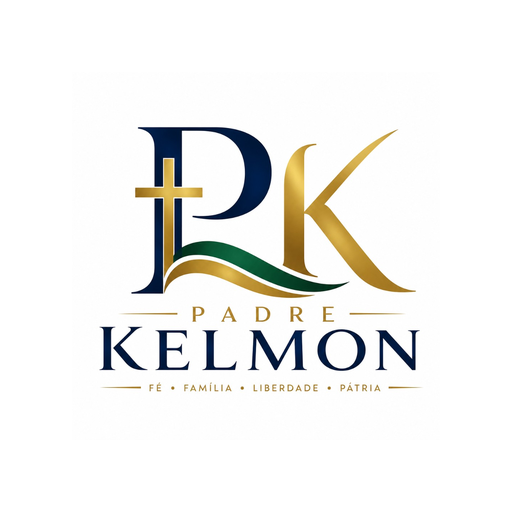
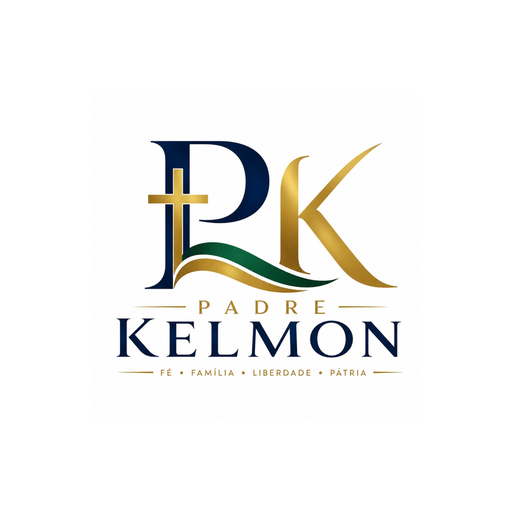
at 2

Changed region(s): [[0.1875, 0.25, 0.8125, 0.7812], [0.4375, 0.5938, 0.4688, 0.625]]

diff --git a/src/components/landing/site-header.tsx b/src/components/landing/site-header.tsx
@@ -42,12 +42,12 @@ export function SiteHeader() {
           <PageShell className="flex min-w-0 items-center gap-3 py-2 sm:py-2.5 md:gap-4 md:py-[0.6rem]">
             <Link to="/" onClick={() => scrollToPageTop()} className="flex shrink-0 items-center">
               <img
-                src="/Logo-Site-Padre-kelmon-campanha.png"
-                alt="Padre Kelmon 2202 — Deputado Federal"
+                src="/Logo-Site-PAdre-kelmon.png"
+                alt="Padre Kelmon — Fé, Família, Liberdade, Pátria"
                 width={220}
-                height={50}
+                height={60}
                 decoding="async"
-                className="h-10 w-auto max-w-[42vw] rounded-md object-contain object-left sm:h-11 md:h-11 md:max-w-[11rem] lg:h-12 lg:max-w-none"
+                className="h-10 w-auto max-w-[48vw] object-contain object-left sm:h-11 md:h-11 md:max-w-[14rem] lg:h-12 lg:max-w-none"
               />
             </Link>
 

diff --git a/src/routes/index.tsx b/src/routes/index.tsx
@@ -83,9 +83,10 @@ export const Route = createFileRoute("/")({
         { rel: "canonical", href: pageUrl },
         { rel: "alternate", hrefLang: "pt-BR", href: pageUrl },
         { rel: "alternate", hrefLang: "x-default", href: pageUrl },
-        { rel: "icon", href: "/favicon-campanha.png?v=6", type: "image/png", sizes: "any" },
-        { rel: "shortcut icon", href: "/favicon-campanha.png?v=6", type: "image/png" },
-        { rel: "apple-touch-icon", sizes: "180x180", href: "/favicon-campanha.png?v=6" },
+        { rel: "icon", href: "/favicon.png?v=7", type: "image/png", sizes: "any" },
+        { rel: "icon", href: "/favicon-32x32.png?v=7", type: "image/png", sizes: "32x32" },
+        { rel: "shortcut icon", href: "/favicon.ico?v=7" },
+        { rel: "apple-touch-icon", sizes: "180x180", href: "/apple-touch-icon.png?v=7" },
         {
           rel: "preload",
           as: "image",

diff --git a/src/components/landing/site-footer.tsx b/src/components/landing/site-footer.tsx
@@ -72,13 +72,13 @@ export function SiteFooter() {
               className="inline-flex items-center"
             >
               <img
-                src="/Logo-Site-Padre-kelmon-campanha.png"
-                alt="Padre Kelmon 2202 — Deputado Federal"
+                src="/Logo-Site-PAdre-kelmon.png"
+                alt="Padre Kelmon — Fé, Família, Liberdade, Pátria"
                 width={200}
-                height={45}
+                height={55}
                 loading="lazy"
                 decoding="async"
-                className="h-9 w-auto rounded-md sm:h-10"
+                className="h-9 w-auto rounded-md bg-white/95 px-2 py-1 sm:h-10"
               />
             </Link>
             <p className="mt-3 whitespace-nowrap text-[clamp(0.7rem,2.8vw,0.875rem)] font-bold leading-none text-white">

diff --git a/src/routes/__root.tsx b/src/routes/__root.tsx
@@ -97,9 +97,10 @@ export const Route = createRootRouteWithContext<{ queryClient: QueryClient }>()(
     links: [
       { rel: "stylesheet", href: appCss },
       { rel: "manifest", href: "/manifest.webmanifest" },
-      { rel: "icon", href: "/favicon-campanha.png?v=6", type: "image/png", sizes: "any" },
-      { rel: "shortcut icon", href: "/favicon-campanha.png?v=6", type: "image/png" },
-      { rel: "apple-touch-icon", sizes: "180x180", href: "/favicon-campanha.png?v=6" },
+      { rel: "icon", href: "/favicon.png?v=7", type: "image/png", sizes: "any" },
+      { rel: "icon", href: "/favicon-32x32.png?v=7", type: "image/png", sizes: "32x32" },
+      { rel: "shortcut icon", href: "/favicon.ico?v=7" },
+      { rel: "apple-touch-icon", sizes: "180x180", href: "/apple-touch-icon.png?v=7" },
     ],
   }),
 

diff --git a/src/lib/site.ts b/src/lib/site.ts
@@ -243,7 +243,7 @@ export function buildOrganizationJsonLd() {
     name: SITE_NAME,
     alternateName: CANDIDATE.fullName,
     url,
-    logo: absoluteUrl("/Logo-Site-Padre-kelmon-campanha.png"),
+    logo: absoluteUrl("/Logo-Site-PAdre-kelmon.png"),
     description: SITE_DESCRIPTION,
     foundingDate: "2023-06-29",
     areaServed: {

diff --git a/public/sw.js b/public/sw.js
@@ -1,11 +1,11 @@
 /* Service Worker — Padre Kelmon PWA */
-const CACHE_VERSION = "kelmon-pwa-v2";
+const CACHE_VERSION = "kelmon-pwa-v3";
 const PRECACHE = [
   "/",
   "/manifest.webmanifest",
   "/pwa-192.png",
   "/pwa-512.png",
-  "/favicon-campanha.png",
+  "/favicon.png",
   "/apple-touch-icon.png",
 ];
 
